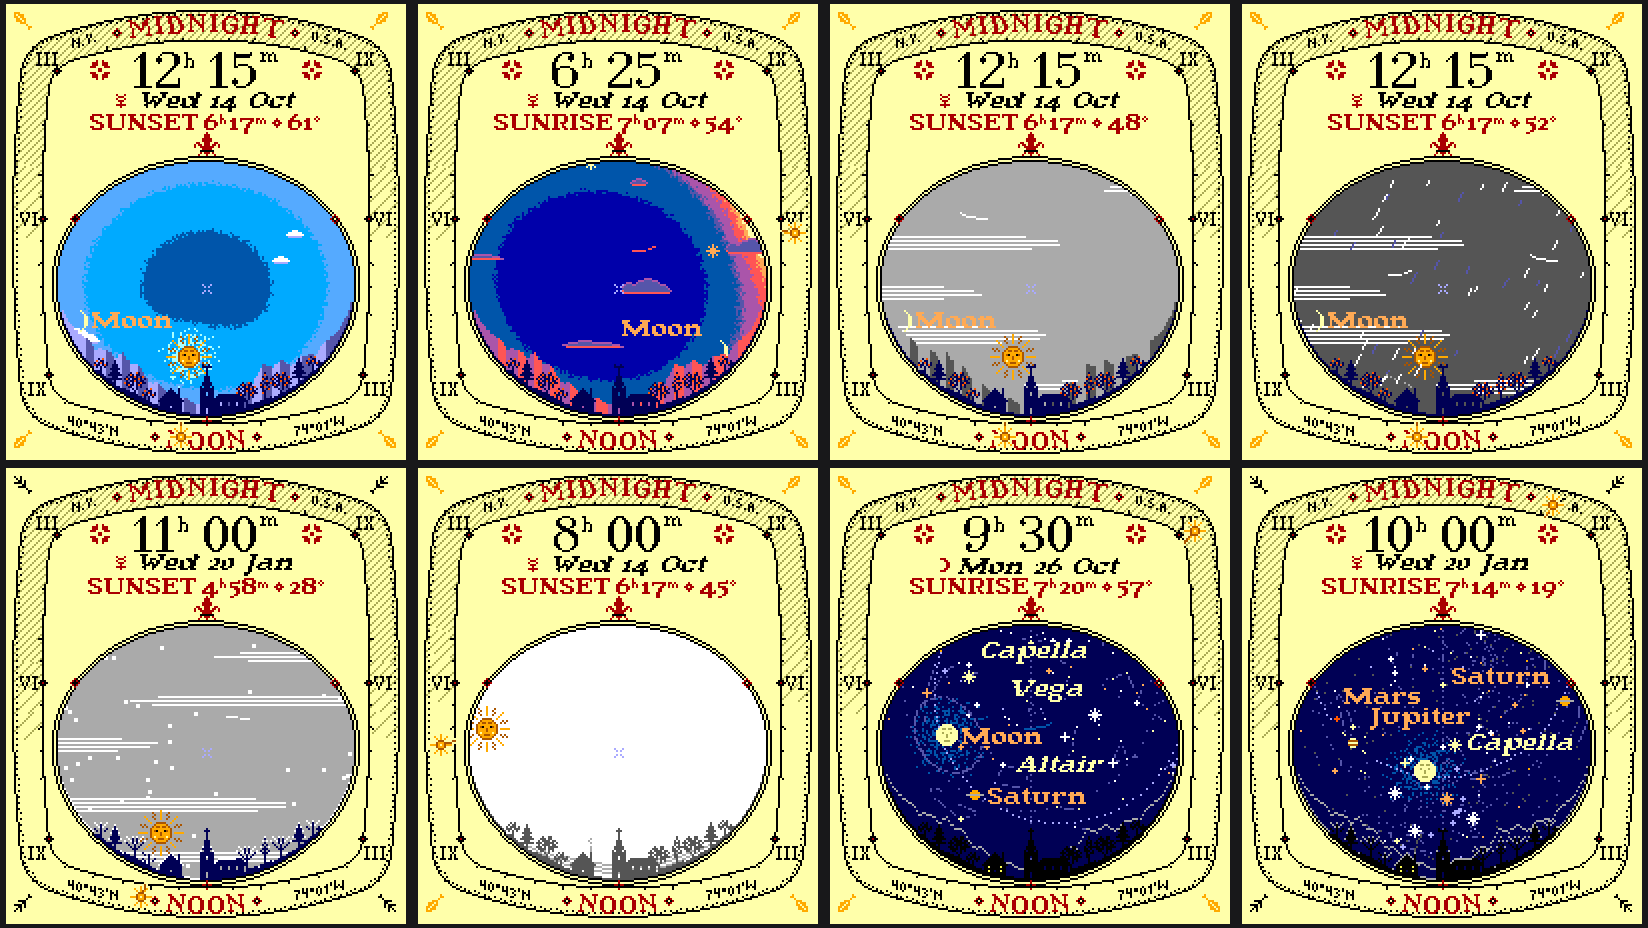
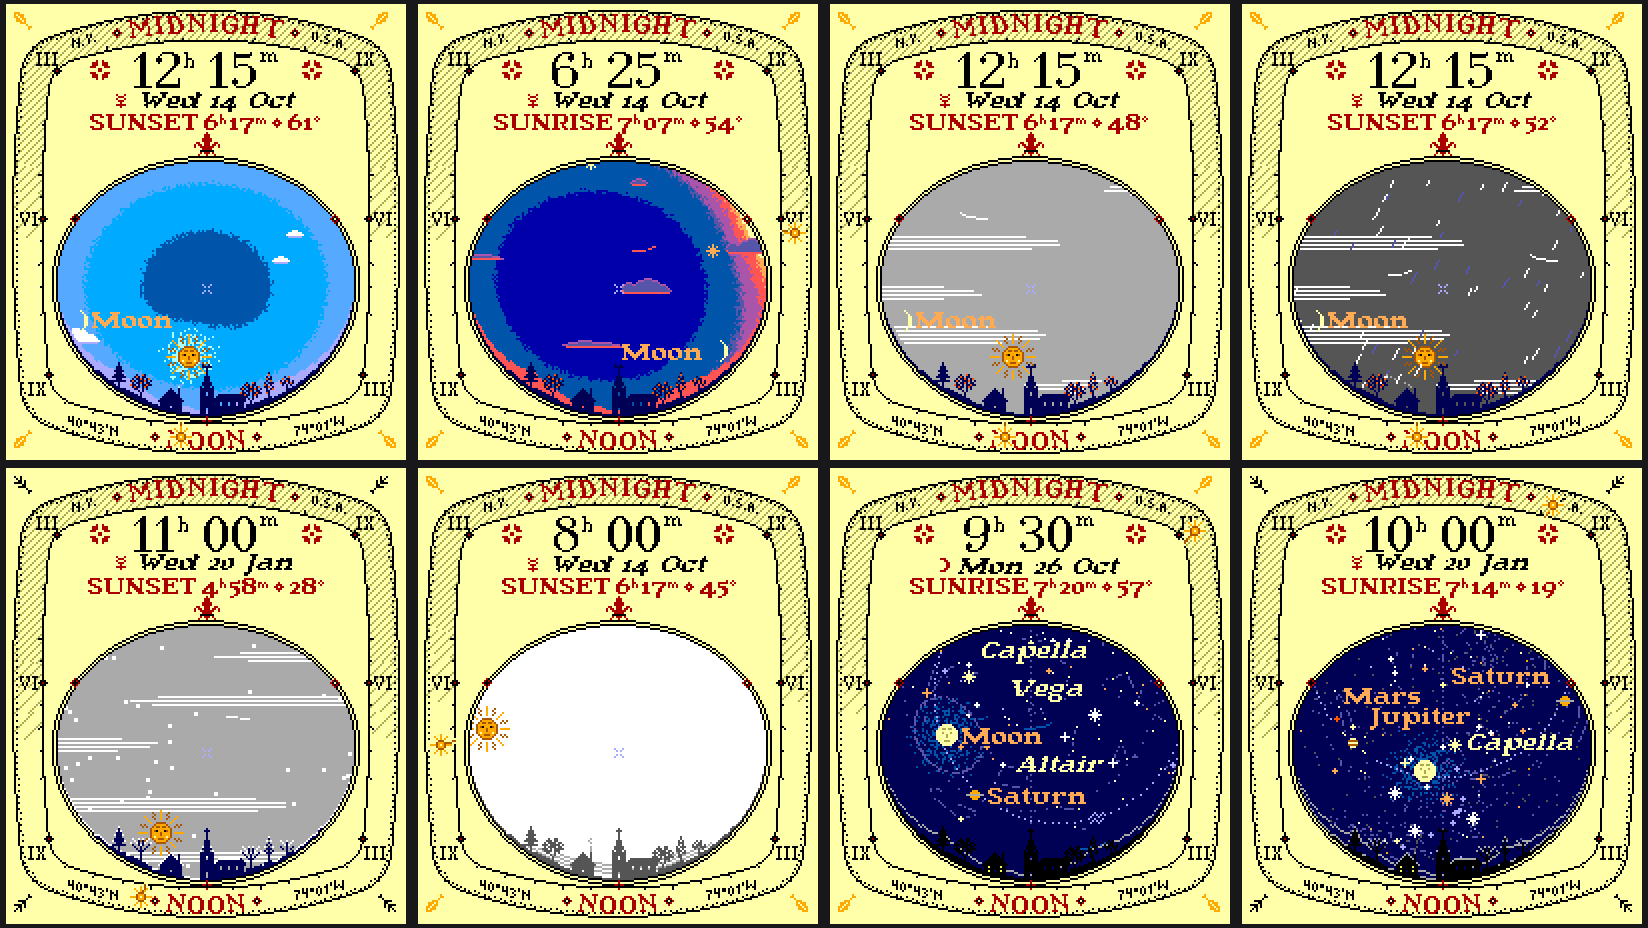
Quieter hills and fewer trees: the horizon kept calm
The distant range was getting busy: two-toned peaks, snow caps, two
massifs standing over ten trees. It is now low, distant hills in one
quiet tone that takes the hour's light: pale with the haze by day, gold,
then rose, then the mauve of the afterglow as the Sun goes down, and by
night a dark cutout where the stars stop, its ridge faintly silvered. The
drawn hills rise to about ten pixels at most. A place's own skyline is
kept as quiet: gentle country is magnified at most twice, and big
mountains (Chamonix's) are brought down to the same low band. The village
keeps seven pieces: the church, the house and five trees.

diff --git a/proto/plates.py b/proto/plates.py
@@ -475,23 +475,19 @@ def edge_geometry(dial, edge_):
     return cache[key]
 
 
-def real_range(dial, edge_, sky, most=4.0, room=20.0, least=4.0):
-    """The place's own skyline along the window's lower edge: ({dx: (height in pixels, east face)}, {dx: the
-    ground's height in metres}), or (None, None) where it is too low to draw. Magnified up to `most` times, as
-    the old panoramas exaggerate relief, while that keeps them under `room` pixels; never smaller than true, so
-    where the mountains are big they stand as they really do, hiding the stars they really hide."""
+def real_range(dial, edge_, sky, most=2.0, room=12.0, least=3.0):
+    """The place's own skyline along the window's lower edge, {dx: height in pixels}, or None where it is too low
+    to draw: kept quiet, magnified at most `most` times for gentle hills and brought down to `room` pixels where
+    the mountains are big."""
     geo = edge_geometry(dial, edge_)
     true = {dx: horizon.at(sky, az) * kpd for dx, (az, kpd) in geo.items()}
     top = max(true.values()) if true else 0.0
     if top <= 0:
-        return None, None
-    mag = max(1.0, min(most, room / top))                # never smaller than the mountains really stand
+        return None
+    mag = min(most, room / top)
     if top * mag < least:
-        return None, None
-    hpx = {dx: v * mag for dx, v in true.items()}
-    out = {dx: (int(round(v)), hpx.get(dx + 2, v) >= hpx.get(dx - 2, v)) for dx, v in hpx.items()}
-    return out, {dx: horizon.at(sky, geo[dx][0], 1) for dx in geo}
-
+        return None
+    return {dx: int(round(v * mag)) for dx, v in true.items()}
 
 _WIDEST = {}
 
@@ -853,71 +849,49 @@ def render(when, dial, sky, tz, plate="planisphere", round_screen=True, clock24=
         x = col + dx_
         if 0 <= x < W and inside[:, x].any():
             edge_[dx_] = int(np.nonzero(inside[:, x])[0].max())
-    # the distant mountains behind the village, catching the light: by day pale with the haze, at sunrise and
-    # sunset their faces toward the Sun lit gold, then rose, then the pink afterglow, the far faces in shadow; by
-    # night a dark cutout where the stars stop, its ridge faintly silvered. Snow on the peaks in winter. Lost in
-    # fog and falling rain or snow; grey under a closed sky. On a printed chart, engraved: the ridge drawn and its
-    # shadowed faces hatched
+    # the distant hills behind the village, low and far, in one quiet tone that takes the hour's light: pale with
+    # the haze by day, gold, then rose, then the mauve of the afterglow as the Sun goes down; by night a dark cutout
+    # where the stars stop, its ridge faintly silvered. Lost in fog and falling rain or snow, grey under a closed
+    # sky; on a printed chart only its ridge, engraved
     if not (wsky is not None and (wsky.fog or wsky.falls)):
-        # the place's own mountains where its skyline is known and has any (from the terrain, worked out once
-        # for the place), else the drawn range
-        heights, ridge_m = None, None
+        # the place's own hills where its skyline is known and has any (from the terrain, worked out once for the
+        # place), else the drawn ones
+        heights = None
         own = horizon.cached(dial.lat, dial.lon)
         if own is not None:
-            heights, ridge_m = real_range(dial, edge_, own)
+            heights = real_range(dial, edge_, own)
         if heights is None:
             heights = sprites.distant_range(edge_)
-        ha_sun = ((lst - pos["sun"][0]) + 180) % 360 - 180
-        morning = ha_sun < 0                             # the Sun east of the meridian: the east faces are lit
         closed_ = wsky is not None and wsky.stratus >= 0.6
         if P["window"] == "red":
-            lit_c, shade_c, cap_c, ridge_c = c8(1, 0, 0), c8(0, 0, 0), c8(2, 0, 0), None
+            tone, ridge_c = c8(1, 0, 0), None
         elif paper:
-            lit_c, shade_c, cap_c, ridge_c = None, None, None, P["line"]
+            tone, ridge_c = None, P["line"]
         elif closed_ and s_eff >= -6:
-            lit_c, shade_c, cap_c, ridge_c = c8(2, 2, 2), c8(1, 1, 1), c8(3, 3, 3), None
-        elif s_eff >= 8:
-            lit_c, shade_c, cap_c, ridge_c = c8(2, 2, 3), c8(1, 1, 2), c8(3, 3, 3), None
-        elif s_eff >= 2:
-            lit_c, shade_c, cap_c, ridge_c = c8(3, 2, 2), c8(1, 1, 2), c8(3, 3, 3), None
-        elif s_eff >= -1:
-            lit_c, shade_c, cap_c, ridge_c = c8(3, 2, 1), c8(2, 1, 2), c8(3, 3, 2), None
-        elif s_eff >= -4:
-            lit_c, shade_c, cap_c, ridge_c = c8(3, 1, 1), c8(2, 1, 2), c8(3, 2, 2), None
-        elif s_eff >= -8:
-            lit_c, shade_c, cap_c, ridge_c = c8(2, 1, 2), c8(1, 1, 2), c8(3, 2, 3), None
+            tone, ridge_c = c8(2, 2, 2), None
+        elif s_eff >= 6:
+            tone, ridge_c = c8(2, 2, 3), None
+        elif s_eff >= 1:
+            tone, ridge_c = c8(3, 2, 2), None
+        elif s_eff >= -2:
+            tone, ridge_c = c8(3, 2, 1), None
+        elif s_eff >= -5:
+            tone, ridge_c = c8(3, 1, 1), None
+        elif s_eff >= -9:
+            tone, ridge_c = c8(2, 1, 2), None
         elif s_eff >= -12:
-            lit_c, shade_c, cap_c, ridge_c = c8(1, 1, 2), c8(0, 0, 1), c8(2, 2, 3), None
+            tone, ridge_c = c8(1, 1, 2), None
         else:
-            moonlit_ = f > 0.4 and moon_up
-            lit_c, shade_c, cap_c = None, None, c8(2, 2, 2) if moonlit_ else None
-            ridge_c = c8(2, 2, 2) if moonlit_ else c8(1, 1, 2)
-        snowy_peaks = season == "bare" or (wsky is not None and (wsky.snow_lying or wsky.temp < 2))
-        line_m = horizon.snowline(dial.lat, season) - (800 if snowy_peaks else 0)
-        for dx_, (hgt, rising) in sorted(heights.items()):
-            e = edge_[dx_]
-            x = col + dx_
-            east_face = rising if dial.lat >= 0 else not rising   # a southern chart has the east on the right
-            facing_sun = east_face == morning
+            tone, ridge_c = None, c8(2, 2, 2) if (f > 0.4 and moon_up) else c8(1, 1, 2)
+        for dx_, hgt in sorted(heights.items()):
+            e, x = edge_[dx_], col + dx_
             for y in range(e - hgt + 1, e + 1):
                 if not (0 <= y < H and inside[y, x]):
                     continue
-                top_ = y == e - hgt + 1
-                if ridge_m is not None:                  # the real peaks: snow above the season's snowline
-                    cap = ridge_m[dx_] > line_m and y <= e - hgt + 2
-                else:
-                    cap = snowy_peaks and hgt >= 15 and y <= e - hgt + 2
-                if paper:
-                    if top_:
-                        img[y, x] = ridge_c
-                    elif not facing_sun and not cap and (x + y) % 3 == 0:
-                        img[y, x] = P["line"]            # the shadowed face, hatched
-                    else:
-                        img[y, x] = ground[y, x]
-                elif lit_c is None:                      # night: the sky's own colour, the ridge silvered
-                    img[y, x] = (cap_c if cap and cap_c is not None else ridge_c) if top_ else ground[y, x]
-                else:
-                    img[y, x] = cap_c if cap else (lit_c if facing_sun else shade_c)
+                if tone is not None:
+                    img[y, x] = tone
+                else:                                    # night or a printed chart: the ridge alone
+                    img[y, x] = ridge_c if y == e - hgt + 1 else ground[y, x]
                 blocked[y, x] = True
     village_px, anchors = sprites.village(edge_, season, snow_, vane, lit_)
     night_land = sun_alt < -6 or P["window"] == "red"

diff --git a/proto/sprites.py b/proto/sprites.py
@@ -657,29 +657,23 @@ VILLAGE_PIECES = {
 }
 VILLAGE_TREES = ("tree", "poplar", "fir", "small")
 # where each piece stands, its middle column this many pixels from the south point, and the hills' heights
-VILLAGE_LAYOUT = [("small", -53), ("fir", -46), ("tree", -36), ("small", -29), ("house", -18), ("church", 7),
-                  ("tree", 20), ("poplar", 29), ("tree", 37), ("fir", 46), ("small", 53)]
+VILLAGE_LAYOUT = [("fir", -44), ("tree", -33), ("house", -18), ("church", 7), ("tree", 22), ("poplar", 31),
+                  ("small", 40)]
 VILLAGE_HILLS = [(-62, 1), (-48, 2), (-36, 3), (-24, 2), (-10, 1), (0, 1), (12, 2), (26, 3), (40, 2), (52, 2), (62, 1)]
 VILLAGE_SEASON = {"blossom": "blossom", "turning": "turning", "autumn": "autumn", "bare": "bare"}
-# the distant mountains behind it where the place's own skyline is not known (or is flat): two massifs with low
-# hills between, so the steeple stands against the sky; heights in pixels above the window's edge, drawn as straight
-# ridges between these points
-DISTANT_RANGE = [(-72, 5), (-66, 8), (-60, 12), (-56, 11), (-50, 16), (-46, 15), (-42, 20), (-38, 17), (-34, 18),
-                 (-29, 12), (-24, 13), (-18, 8), (-11, 8), (-5, 6), (2, 7), (9, 10), (14, 9), (19, 14), (23, 13),
-                 (28, 21), (33, 17), (37, 19), (42, 13), (48, 14), (54, 9), (60, 10), (66, 6), (72, 5)]
+# the distant hills behind it where the place's own skyline is not known (or is flat): low and far, a long ridge
+# rising to a summit either side, the steeple against the sky between; heights in pixels above the window's edge,
+# straight ridges between these points
+DISTANT_RANGE = [(-72, 3), (-62, 5), (-52, 7), (-43, 10), (-35, 8), (-25, 5), (-13, 4), (0, 3), (12, 4), (21, 6),
+                 (31, 10), (40, 8), (51, 6), (62, 4), (72, 3)]
 
 
 def distant_range(dxs):
-    """The drawn range at each column offset: (its height above the window's edge, whether the ridge rises to the
-    right there: on a northern chart an east face, on a southern one a west face). The faces follow the ridge
-    between the drawn points, so a peak's two sides each keep one light."""
+    """The drawn hills' height above the window's edge at each column offset."""
     xs, hs = zip(*DISTANT_RANGE)
-    out = {}
-    for dx in dxs:
-        k = int(np.searchsorted(xs, dx, side="right")) - 1
-        k = max(0, min(len(xs) - 2, k))
-        out[dx] = (int(round(np.interp(dx, xs, hs))), hs[k + 1] >= hs[k])
-    return out
+    return {dx: int(round(np.interp(dx, xs, hs))) for dx in dxs}
+
+
 VANE = {                        # the church's weather vane on its mast, the arrow pointing where the wind comes from
     "left": [".#..#",           # (seen from the north, looking south: east is to the left), its barb and its tail
              "#####",           # standing up; end on, a cross

diff --git a/proto/film_plates.py b/proto/film_plates.py
@@ -113,15 +113,15 @@ def main():
         crop = Image.fromarray(im[168:210, 50:150]).resize((400, 168), Image.NEAREST)
         sheet.paste(crop, ((i % 4) * 412 + 6, 464 + 4 + (i // 4) * 172))
     sheet.save(ROOT / "docs" / "seasons.png")
-    # the mountains behind the village catching the light: the drawn range over New York at noon, as the Sun sets,
-    # in the afterglow and at night; then Chamonix's own skyline, the Mont Blanc massif from its terrain, at
-    # noon, lit by the setting Sun, in the afterglow, and snowy on a winter's noon
+    # the distant hills behind the village catching the light: the drawn hills over New York at noon, as the Sun
+    # sets, in the afterglow and at night; then Chamonix's own skyline, the Mont Blanc massif from its terrain, at
+    # noon, at sunset, in the afterglow, and on a winter's night
     PAR = ZoneInfo("Europe/Paris")
     cham = RectDial(200, 228, 45.9237, 6.8694)
     shots = [(t2, datetime(2026, 10, 14, 12, 15, tzinfo=NY), NY), (t2, datetime(2026, 10, 14, 18, 10, tzinfo=NY), NY),
              (t2, datetime(2026, 10, 14, 18, 25, tzinfo=NY), NY), (t2, datetime(2026, 10, 14, 21, 30, tzinfo=NY), NY),
              (cham, datetime(2026, 10, 14, 13, 0, tzinfo=PAR), PAR), (cham, datetime(2026, 10, 14, 19, 5, tzinfo=PAR), PAR),
-             (cham, datetime(2026, 10, 14, 19, 25, tzinfo=PAR), PAR), (cham, datetime(2027, 1, 20, 12, 30, tzinfo=PAR), PAR)]
+             (cham, datetime(2026, 10, 14, 19, 25, tzinfo=PAR), PAR), (cham, datetime(2027, 1, 20, 22, 0, tzinfo=PAR), PAR)]
     sheet = Image.new("RGB", (4 * 412, 2 * 464), (24, 24, 26))
     for i, (dial, t, tz) in enumerate(shots):
         w = wx.SAMPLES["frost" if t.month == 1 else "fair"]

diff --git a/README.md b/README.md
@@ -96,27 +96,24 @@ With the weather, the face shows the place's own sky, drawn as an engraver would
 
 ![Fair at noon, broken cloud at dusk, overcast, rain; snow, fog, the Moon's halo in thin high cloud, and a frosty night with snow lying](docs/weather.png)
 
-### The mountains
+### The distant hills
 
-Behind the village a distant range stands along the horizon and catches the light.
-- **By day** it is pale with the haze.
-- **As the Sun goes down,** the faces toward it light gold, then rose, then the pink of the afterglow, while the far faces stay in shadow. In the morning it is the eastern faces that light.
-- **By night** it is a dark cutout where the stars stop, its ridge faintly silvered (brighter under the Moon).
-- **Snow** lies on its peaks in winter.
-- **In fog or falling rain and snow** it is lost; under a closed sky it goes grey.
-- **On the printed charts** it is engraved: the ridge drawn and its shadowed faces hatched.
+Behind the village, low distant hills stand along the horizon in one quiet tone that takes the hour's light:
+- pale with the haze by day;
+- gold, then rose, then the mauve of the afterglow as the Sun goes down;
+- by night a dark cutout where the stars stop, its ridge faintly silvered.
 
-The mountains can be the place's own. From the terrain (Open-Meteo's elevation service, the Copernicus 90 m model, no key), the skyline is worked out once for the place, every two degrees across the window's southern edge:
+They are lost in fog and falling rain or snow, and go grey under a closed sky. On the printed charts only their ridge is drawn, engraved.
+
+The hills can be the place's own. From the terrain (Open-Meteo's elevation service, the Copernicus 90 m model, no key), the skyline is worked out once for the place, every two degrees across the window's southern edge:
 - Along each bearing the ground is sampled from 5 to 140 km out. The nearer ground is skipped, because the model includes buildings and woods.
 - The skyline's height is the steepest angle up to any of that ground, with the Earth's curve taken off and the air's refraction put back.
-- Where the mountains are big they stand at their true height, hiding exactly the stars they hide.
-- Gentler ranges are magnified up to four times, as the old panoramas exaggerated relief.
-- Snow lies on them above the season's snowline, so the high peaks keep it all year.
-- Where the land is flat, as round New York, the drawn range stands in.
+- It is kept as quiet as the drawn hills: gentle country is magnified at most twice, and big mountains are brought down to the same low band.
+- Where the land is flat, as round New York, the drawn hills stand in.
 
 On the watch the phone would do the survey once for each new place and keep the result.
 
-![New York's drawn range at noon, at sunset, in the afterglow and at night; Chamonix's own skyline (the Mont Blanc massif) at noon, lit by the setting Sun, in the afterglow, and snowy on a winter's noon](docs/mountains.png)
+![New York's drawn hills at noon, at sunset, in the afterglow and at night; Chamonix's own skyline (the Mont Blanc massif) at noon, at sunset, in the afterglow, and on a winter's night](docs/mountains.png)
 
 ### The year
 
@@ -129,7 +126,7 @@ The village keeps the year, as an almanac's cuts of the months do. The season co
 
 And the filigree, all drawn by hand:
 
-- on the southern horizon, a church and a house among trees, after the cuts of a village on an almanac's page. The church stands at the south point, its spire on the meridian and a weather vane on its mast. Each piece is drawn whole and stood on the ground along the window's lower edge: a tree where its trunk meets the ground, a building as low as the ground under it goes. Behind them a distant range catches the light (below). They keep the season and the weather;
+- on the southern horizon, a church and a house among trees, after the cuts of a village on an almanac's page. The church stands at the south point, its spire on the meridian and a weather vane on its mast. Each piece is drawn whole and stood on the ground along the window's lower edge: a tree where its trunk meets the ground, a building as low as the ground under it goes. Behind them low distant hills catch the light (below). They keep the season and the weather;
 - the engraver's glory of fine rays round the Sun on the printed charts;
 - a beaded rule inside the ring's outer rule, as on a clock's chapter ring;
 - studs on the inner rule at the numbered hours;
@@ -236,7 +233,7 @@ The pieces are drawn by hand, pixel by pixel, not generated from shapes. Each is
   - Quentel's flowers beside the time;
   - the engraved glory;
   - the village on the horizon.
-- **The distant range** is drawn as straight ridges between hand-placed peaks and saddles: two massifs with low hills between them, so the steeple stands against the sky.
+- **The distant hills** are drawn as straight ridges between hand-placed points: a long ridge rising to a summit on either side, with the steeple against the sky between.
 - **The village** is a church (tower, pinnacles, tall spire, nave with lancet windows), a two-storey house with a chimney, and trees: a broad tree, a poplar and a small tree, each in leaf, blossom, turning, gold and bare, and a fir. The church's vane is drawn three ways. Its passers-by are drawn too: a swallow, a bat and a jackdaw on the wing, the owl blinking and looking about, a tumbling leaf, a firefly's flash.
 - **The clouds** are Howard's: cumulus heaps and banks drawn as silhouettes, whose tops and bases the face lights for the hour, and cirrus in hair strokes.
 - **The almanac's signs** are the zodiac and the planets that rule the days.
